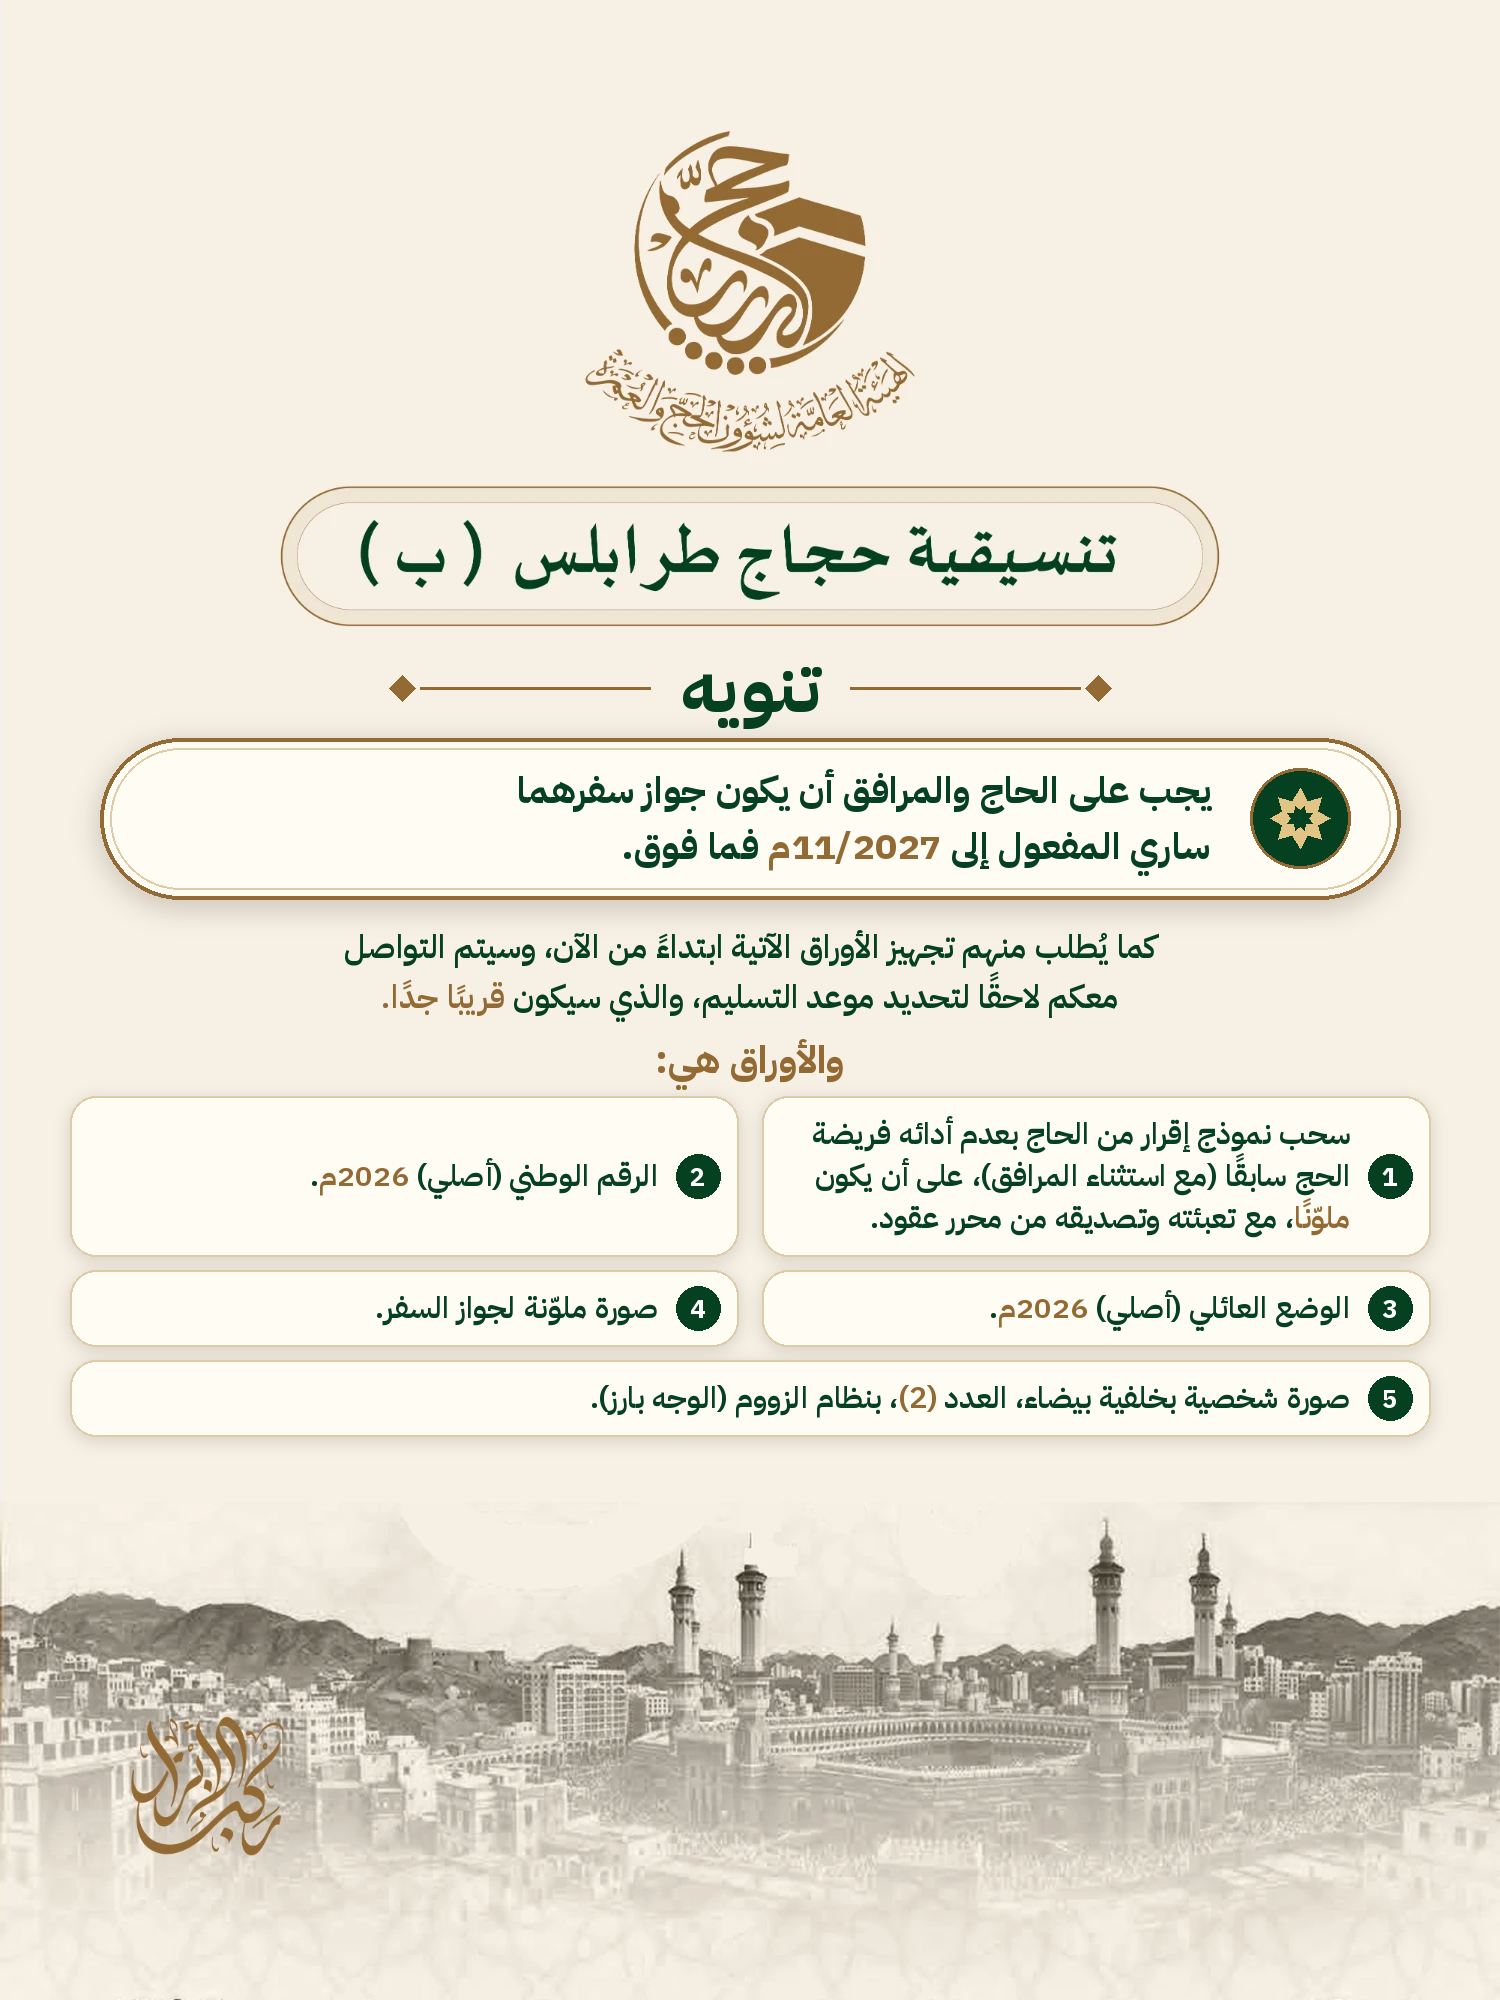
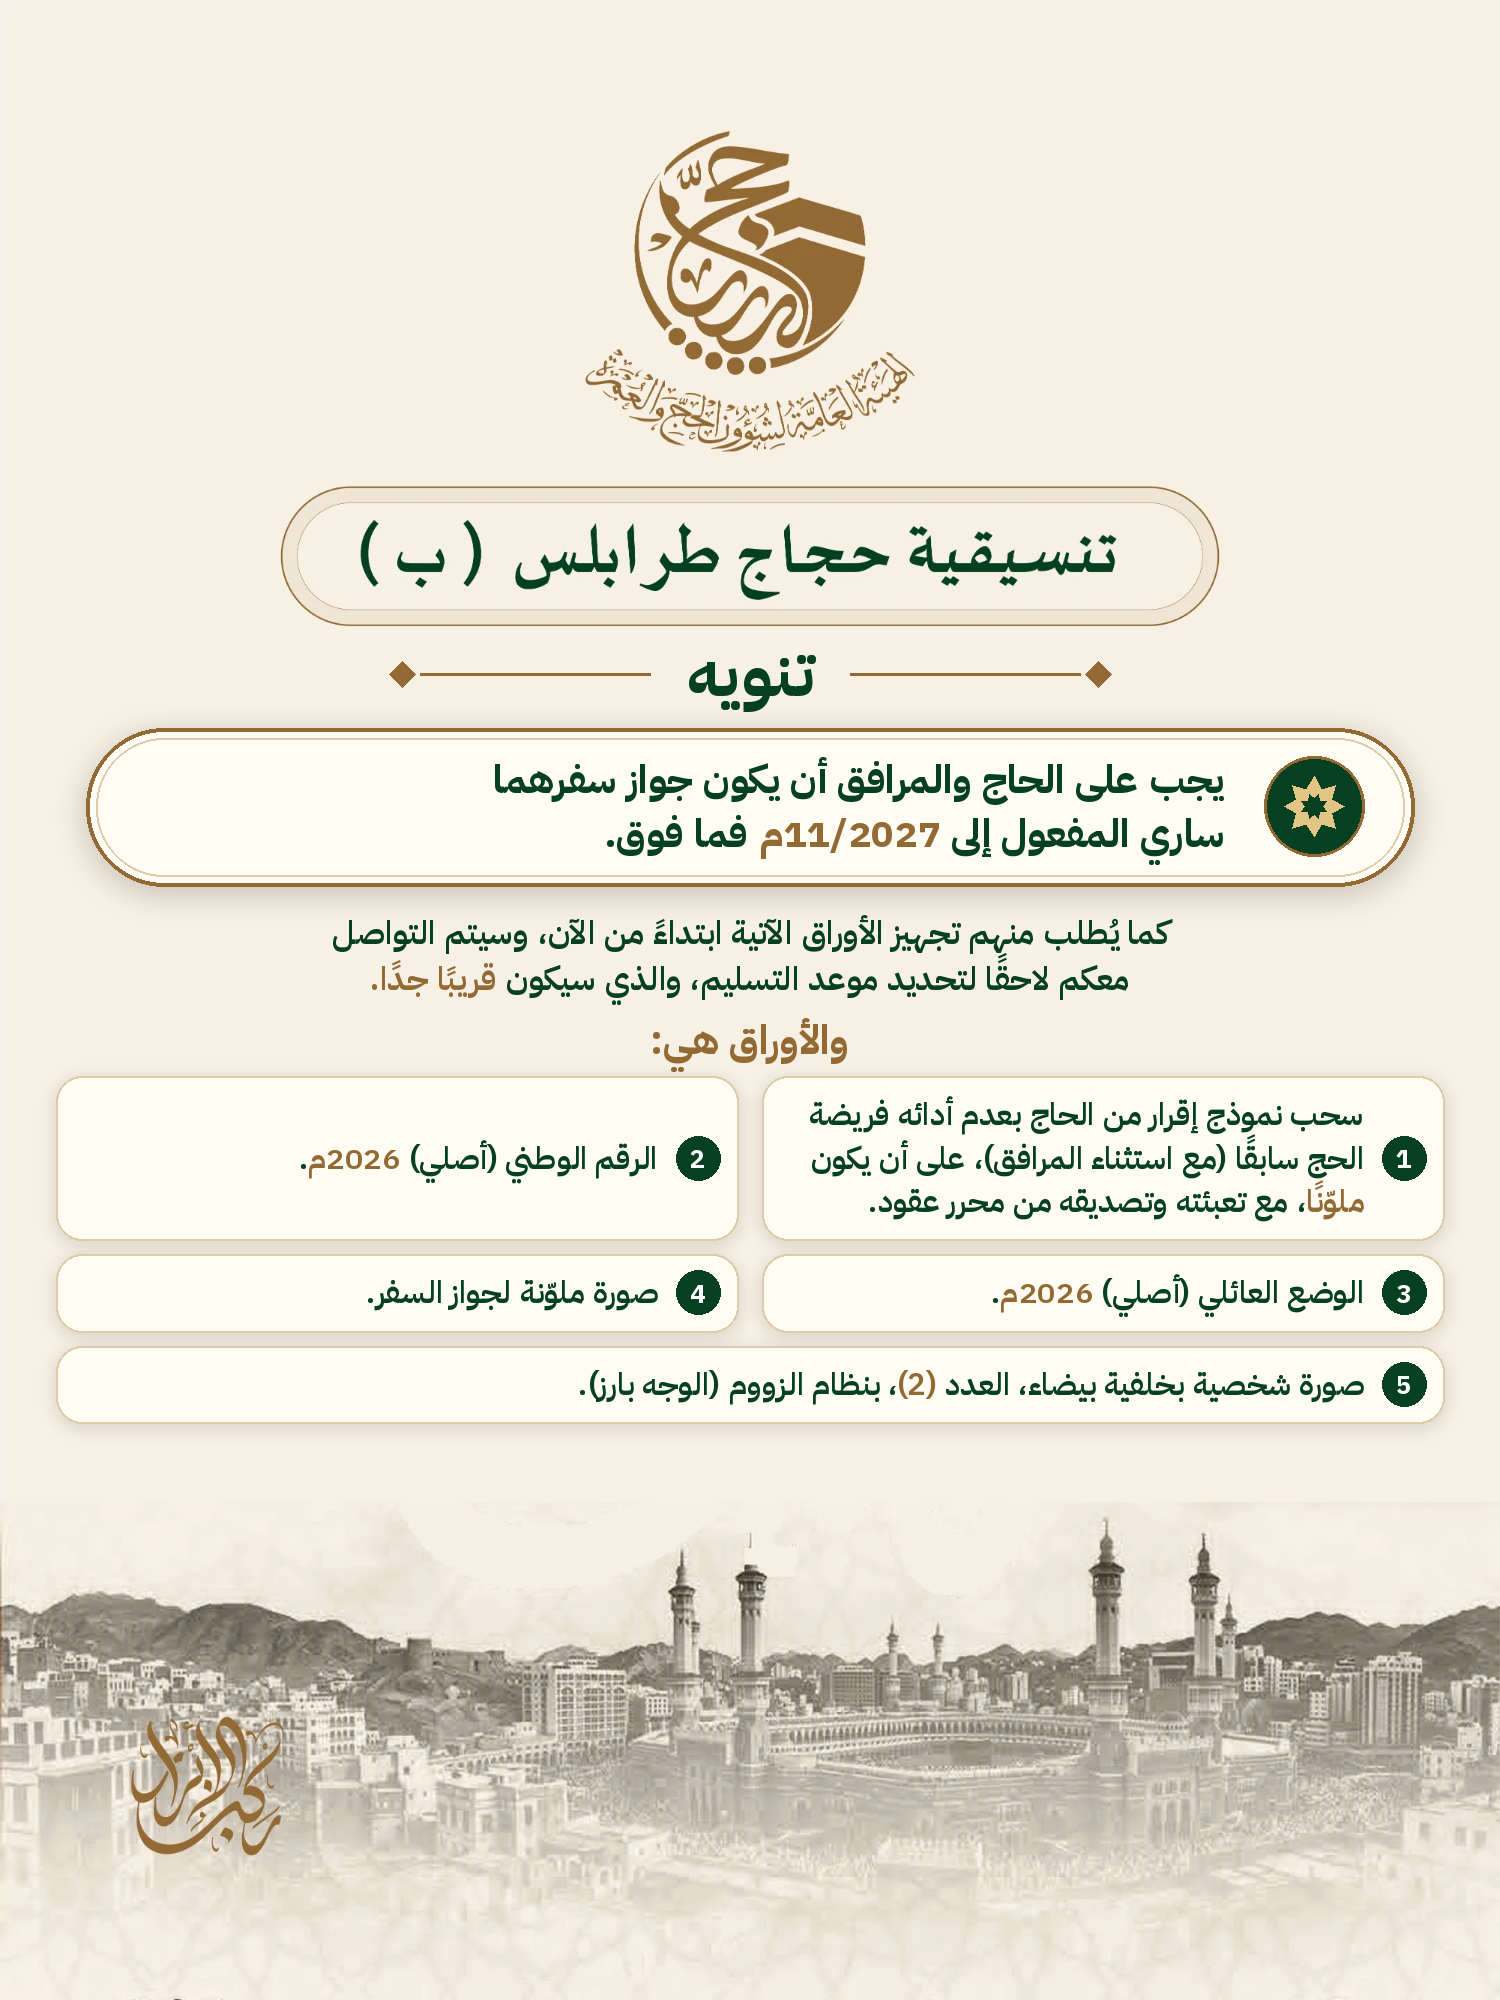
Notice: bigger text (tighter leading and spacing)
Claude-Session: https://claude.ai/code/session_0191y2EXY5dUDpfBFmNJAMrU

Changed region(s): [[0.0307, 0.31, 0.9813, 0.744], [0.0613, 0.372, 0.092, 0.434]]

diff --git a/identity_pack/make_notice.py b/identity_pack/make_notice.py
@@ -8,7 +8,7 @@ from pack_lib import *
 TPL = "mapdata/template_notice.webp"
 W, H = 1500, 2000
 GREEN_T, BRONZE_T = (5, 64, 32), (147, 106, 52)
-AREA = (70, 650, W - 70, 1478)               # safe area inside the empty region
+AREA = (56, 640, W - 56, 1486)               # safe area inside the empty region
 
 HEAD = "تنويه"
 PASS = "يجب على الحاج والمرافق أن يكون جواز سفرهما ساري المفعول إلى *11/2027م* فما فوق."
@@ -47,29 +47,29 @@ def bullet(d, cx, cy, kind, n, r=22):
 def layout_a(img, s):
     d = ImageDraw.Draw(img); x0, x1 = AREA[0], AREA[2]
     y = AREA[1] + 10
-    heading(img, y + 30, int(min(84, 70 * s))); y += 82
+    heading(img, y + 26, int(min(76, 62 * s))); y += 80
     # passport notice: cream card with gold frame
     pw = x1 - x0
-    ph = th(d, PASS, int(40 * s), pw - 80, 700, 1.45) + 40
+    ph = th(d, PASS, int(40 * s), pw - 80, 700, 1.36) + 28
     box = (x0, y, x1, y + ph)
     bc.shadowed_round(img, box, 40, (255, 252, 244), BRONZE_T, 3, blur=12, off=6, alpha=45); d = ImageDraw.Draw(img)
     d.rounded_rectangle((box[0] + 9, box[1] + 9, box[2] - 9, box[3] - 9), 32, outline=(222, 204, 168), width=2)
-    txt(d, box[0] + 40, box[2] - 40, y + 20, PASS, int(40 * s), 700, GREEN_T, "center", 1.45); y += ph + 20
-    y += txt(d, x0 + 30, x1 - 30, y, INTRO, int(33 * s), 600, GREEN_T, "center", 1.55) + 14
-    d.text((x1 - 30, y + 28), LEAD, font=font(700, int(38 * s)), fill=BRONZE_T, anchor="rm", direction="rtl", language="ar"); y += 62
+    txt(d, box[0] + 40, box[2] - 40, y + 14, PASS, int(40 * s), 700, GREEN_T, "center", 1.36); y += ph + 12
+    y += txt(d, x0 + 10, x1 - 10, y, INTRO, int(33 * s), 600, GREEN_T, "center", 1.4) + 6
+    d.text((x1 - 30, y + 28), LEAD, font=font(700, int(38 * s)), fill=BRONZE_T, anchor="rm", direction="rtl", language="ar"); y += int(1.5 * 33 * s)
     for t in ITEMS:
-        h = th(d, t, int(33 * s), x1 - x0 - 150, 600, 1.45)
+        h = th(d, t, int(33 * s), x1 - x0 - 120, 600, 1.36)
         bullet(d, x1 - 40, y + 25, "dia", 0)
-        txt(d, x0 + 20, x1 - 80, y, t, int(33 * s), 600, GREEN_T, "right", 1.45)
-        y += h + 12
+        txt(d, x0 + 10, x1 - 70, y, t, int(33 * s), 600, GREEN_T, "right", 1.36)
+        y += h + 6
     return y
 
 # --------------------------------------------------------------------------- layout B
 def layout_b(img, s):
     d = ImageDraw.Draw(img); x0, x1 = AREA[0], AREA[2]
     y = AREA[1] + 8
-    heading(img, y + 30, int(min(84, 70 * s))); y += 80
-    ph = th(d, PASS, int(38 * s), x1 - x0 - 160, 700, 1.5) + 54
+    heading(img, y + 26, int(min(76, 62 * s))); y += 80
+    ph = th(d, PASS, int(38 * s), x1 - x0 - 160, 700, 1.38) + 54
     box = (x0, y, x1, y + ph)
     soft_shadow(img, box, 36, alpha=70, blur=14, off=7); d = ImageDraw.Draw(img)
     d.rounded_rectangle(box, 36, fill=GREEN_T, outline=BRONZE_T, width=3)
@@ -77,18 +77,18 @@ def layout_b(img, s):
     d.text((x1 - 56, y + ph / 2 + 2), "!", font=font(700, 44), fill=(226, 196, 132), anchor="mm")
     txt(d, x0 + 36, x1 - 110, y + 27, PASS, int(38 * s), 700, (255, 252, 244), "right", 1.5, hl=(236, 208, 148)); y += ph + 26
     # list card
-    items_h = sum(th(d, t, int(32 * s), x1 - x0 - 190, 600, 1.45) + 14 for t in ITEMS)
-    ih = th(d, INTRO, int(32 * s), x1 - x0 - 100, 600, 1.55)
+    items_h = sum(th(d, t, int(32 * s), x1 - x0 - 190, 600, 1.36) + 14 for t in ITEMS)
+    ih = th(d, INTRO, int(32 * s), x1 - x0 - 100, 600, 1.4)
     ch = ih + 22 + 56 + items_h + 40
     box = (x0, y, x1, y + ch)
     bc.shadowed_round(img, box, 36, (255, 252, 244), (222, 204, 168), 2, blur=12, off=6, alpha=45); d = ImageDraw.Draw(img)
     yy = y + 20
-    yy += txt(d, x0 + 50, x1 - 50, yy, INTRO, int(32 * s), 600, GREEN_T, "right", 1.55) + 14
+    yy += txt(d, x0 + 50, x1 - 50, yy, INTRO, int(32 * s), 600, GREEN_T, "right", 1.4) + 14
     d.text((x1 - 50, yy + 26), LEAD, font=font(700, int(36 * s)), fill=BRONZE_T, anchor="rm", direction="rtl", language="ar"); yy += 58
     for n, t in enumerate(ITEMS, 1):
-        h = th(d, t, int(32 * s), x1 - x0 - 190, 600, 1.45)
+        h = th(d, t, int(32 * s), x1 - x0 - 190, 600, 1.36)
         bullet(d, x1 - 74, yy + 24, "num", n)
-        txt(d, x0 + 40, x1 - 120, yy, t, int(32 * s), 600, GREEN_T, "right", 1.45)
+        txt(d, x0 + 40, x1 - 120, yy, t, int(32 * s), 600, GREEN_T, "right", 1.36)
         yy += h + 14
     return y + ch
 
@@ -96,10 +96,10 @@ def layout_b(img, s):
 def layout_c(img, s):
     d = ImageDraw.Draw(img); x0, x1 = AREA[0], AREA[2]
     y = AREA[1] + 8
-    heading(img, y + 30, int(min(84, 70 * s))); y += 80
+    heading(img, y + 26, int(min(76, 62 * s))); y += 80
     # passport notice: capsule with gold double frame and medallion
     pw = x1 - x0 - 60
-    ph = th(d, PASS, int(37 * s), pw - 260, 700, 1.5) + 50
+    ph = th(d, PASS, int(37 * s), pw - 260, 700, 1.38) + 50
     box = (x0 + 30, y, x1 - 30, y + ph)
     soft_shadow(img, box, int(ph / 2), alpha=60, blur=14, off=7); d = ImageDraw.Draw(img)
     d.rounded_rectangle(box, int(ph / 2), fill=(255, 252, 244), outline=BRONZE_T, width=4)
@@ -107,8 +107,8 @@ def layout_c(img, s):
     cx, cy = box[2] - 100, y + ph / 2
     d.ellipse((cx - 50, cy - 50, cx + 50, cy + 50), fill=GREEN_T, outline=BRONZE_T, width=3)
     star8(d, cx, cy, 30, fill=(226, 196, 132)); star8(d, cx, cy, 13, fill=GREEN_T, rot=-math.pi / 2 + math.pi / 8)
-    txt(d, box[0] + 50, box[2] - 190, y + 25, PASS, int(37 * s), 700, GREEN_T, "right", 1.5); y += ph + 24
-    y += txt(d, x0 + 30, x1 - 30, y, INTRO, int(32 * s), 600, GREEN_T, "center", 1.55) + 12
+    txt(d, box[0] + 50, box[2] - 190, y + 25, PASS, int(37 * s), 700, GREEN_T, "right", 1.38); y += ph + 24
+    y += txt(d, x0 + 30, x1 - 30, y, INTRO, int(32 * s), 600, GREEN_T, "center", 1.4) + 12
     d.text((W / 2, y + 26), LEAD, font=font(700, int(38 * s)), fill=BRONZE_T, anchor="mm", direction="rtl", language="ar"); y += 62
     # items as a 2-column grid of cards (RTL: item 1 on the right)
     colw = (x1 - x0 - 24) // 2
@@ -129,7 +129,7 @@ def layout_c(img, s):
 
 LAYOUTS = [layout_a, layout_b, layout_c]
 
-def fit(fn, s0=1.6):
+def fit(fn, s0=2.2):
     s = s0
     while s > 0.6:
         im = Image.open(TPL).convert("RGB")
